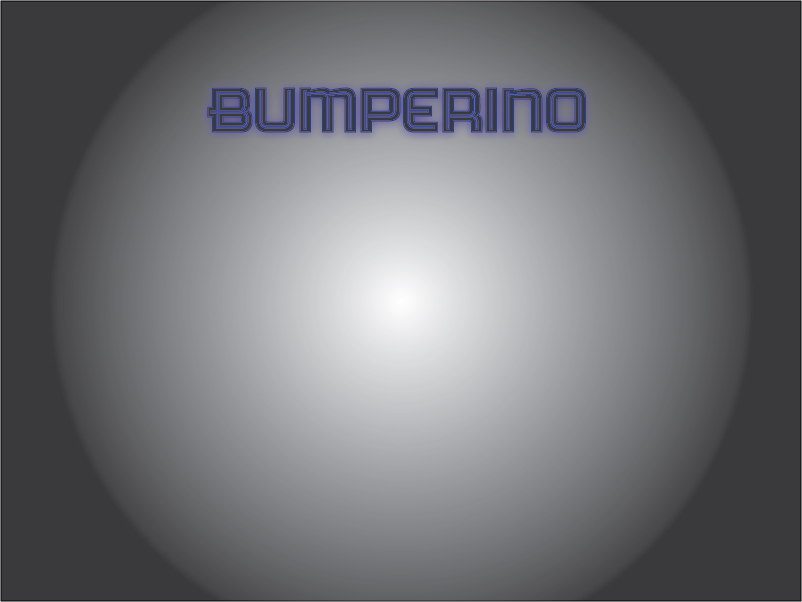
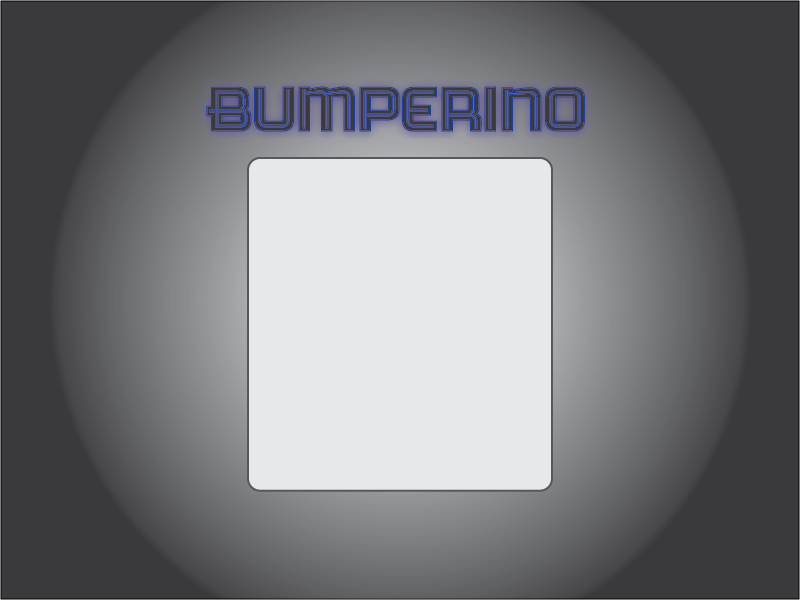
Cleaned up unneeded pieces from template, got basic menus up for bumperino

Changed region(s): [[0.2812, 0.12, 0.7188, 0.84], [0.625, 0.15, 0.75, 0.24], [0.25, 0.15, 0.375, 0.24]]

diff --git a/script.js b/script.js
@@ -1,18 +1,18 @@
 var stage;
 var queue;
-var titleScreen, gameScreen, instructionScreen, gameoverScreen;
-var menuButton, instructionButton, gameStartButton;
-var walkman;
+var titleScreen, gameScreen, instructionScreen, gameoverScreen, mapScreen;
+var menuButton, instructionButton, vsAIButton, vsPlayerButton;
 
 manifest = [
     {src:"images/titlescreen.jpg", id:"title"},
     {src:"images/gamescreen.jpg", id:"game"},
     {src:"images/instructionscreen.jpg", id:"instruction"},
     {src:"images/gameoverscreen.jpg", id:"gameover"},
+    {src:"images/mapselectscreen.jpg", id:"mapselect"},
     {src:"images/menubutton.png", id:"menubutton"},
     {src:"images/instructionbutton.png", id:"instructionbutton"},
-    {src:"images/startgamebutton.png", id:"startgamebutton"},
-    {src:"images/sprites.png", id:"walkSprite"},
+    {src:"images/vsAIbutton.png", id:"vsAI"},
+    {src:"images/vsplayerbutton.png", id:"vsPlayer"},
     {src:"scripts/image_handler.js"},
     {src:"scripts/key_handler.js"},
     {src:"scripts/mouse_handler.js"},
@@ -33,35 +33,14 @@ function loadComplete(evt){
     gameScreen = new createjs.Bitmap(queue.getResult("game"));
     instructionScreen = new createjs.Bitmap(queue.getResult("instruction"));
     gameoverScreen = new createjs.Bitmap(queue.getResult("gameover"));
+    mapScreen = new createjs.Bitmap(queue.getResult("mapselect"));
     menuButton = new createjs.Bitmap(queue.getResult("menubutton"));
     instructionButton = new createjs.Bitmap(queue.getResult("instructionbutton"));
-    gameStartButton = new createjs.Bitmap(queue.getResult("startgamebutton"));
+    vsAIButton = new createjs.Bitmap(queue.getResult("vsAI"));
+    vsPlayerButton = new createjs.Bitmap(queue.getResult("vsPlayer"));
     console.log("Everything loaded here boss!");
     
-    var walkSheet = new createjs.SpriteSheet({
-        images: [queue.getResult("walkSprite")],
-        frames: [[160,0,19,49,0,10.05,48.6],[179,0,34,44,0,17.05,43.6],[213,0,22,46,0,9.05,45.6],[235,0,17,49,0,8.05,48.6],[0,49,25,49,0,10.05,48.6],[25,49,31,46,0,14.05,45.6],[56,49,33,44,0,16.05,43.6],[89,49,30,44,0,17.05,43.6],[119,49,28,46,0,17.05,45.6],[147,49,19,49,0,10.05,48.6],[166,49,23,49,0,14.05,48.6],[189,49,31,46,0,16.05,45.6],[220,49,34,44,0,17.05,43.6],[0,98,19,49,0,9.05,48.6],[19,98,34,44,0,17.05,43.6],[53,98,22,46,0,13.05,45.6],[75,98,17,49,0,9.05,48.6],[92,98,25,49,0,15.05,48.6],[117,98,31,46,0,17.05,45.6],[148,98,33,44,0,17.05,43.6],[181,98,30,44,0,13.05,43.6],[211,98,28,46,0,11.05,45.6],[0,147,19,49,0,9.05,48.6],[19,147,23,49,0,9.05,48.6],[42,147,31,46,0,15.05,45.6],[73,147,34,44,0,17.05,43.6]],
-        animations: {
-            standRight: [0, 0, "standRight"],
-            walkRight: [1, 12, "walkRight", .5],
-            standLeft: [13, 13, "standLeft"],
-            walkLeft: [14, 25, "walkLeft", .5]
-            }
-        });
-    
-    walkman = new createjs.Sprite(walkSheet);
     initMainLoop();
-}
-
-function displaySprites() {
-    walkman.x=100;
-    walkman.y=200;
-    walkman.gotoAndPlay("walkRight");
-    stage.addChild(walkman);
-}
-
-function removeSprites(){
-    stage.removeChild(walkman);
 }
 
 function setupCanvas() {
@@ -72,17 +51,7 @@ function setupCanvas() {
 }
 
 function gameLoop(){
-    mouseUpdate();
-    addMouseText();
-    runGameTimer();
-    addTimerText();
-    addScoreText();
-    if(gameTimer%1 === 0){
-        scoreUpdate(10);
-    }
-    if(gameTimer >= 5){
-        SWITCH = "GAMEOVER";
-    }
+    
 }
 
 (function main() {

diff --git a/assets/scripts/button_handler.js b/assets/scripts/button_handler.js
@@ -1,41 +1,56 @@
 function initButtons(){
-    menuButton.x = instructionButton.x = gameStartButton.x = 650;
-    menuButton.y = 350;
-    instructionButton.y = 425;
-    gameStartButton.y = 500;
+    menuButton.x = instructionButton.x = vsAIButton.x = vsPlayerButton.x = 275;
+    menuButton.y = 400;
+    instructionButton.y = 400;
+    vsPlayerButton.y = 200;
+    vsAIButton.y = 300;
     stage.addChild(menuButton);
     stage.addChild(instructionButton);
-    stage.addChild(gameStartButton);
-    menuButton.visible = instructionButton.visible = gameStartButton.visible = false;
+    stage.addChild(vsPlayerButton);
+    stage.addChild(vsAIButton);
+    menuButton.visible = instructionButton.visible = vsPlayerButton.visible = vsAIButton.visible = false;
     console.log("buttons loaded");
     menuButton.on("click", function(evt){ SWITCH = "MENU" });
     instructionButton.on("click", function(evt){ SWITCH = "INSTRUCTION" });
-    gameStartButton.on("click", function(evt){
-        SWITCH = "GAME";
-        displaySprites();
+    vsPlayerButton.on("click", function(evt){
+        SWITCH = "MAP_SELECT";
+    });
+    vsAIButton.on("click", function(evt){
+        SWITCH = "MAP_SELECT";
     });
 }
 
 function setUpTitleScreenButtons(){
     menuButton.visible = false;
     instructionButton.visible = true;
-    gameStartButton.visible = true;
+    vsAIButton.visible = true;
+    vsPlayerButton.visible = true;
 }
 
 function setUpInstructionScreenButtons(){
     menuButton.visible = true;
     instructionButton.visible = false;
-    gameStartButton.visible = true;
+    vsAIButton.visible = false;
+    vsPlayerButton.visible = false;
 }
 
 function setUpGameScreenButtons(){
     menuButton.visible = false;
     instructionButton.visible = false;
-    gameStartButton.visible = false;
+    vsAIButton.visible = false;
+    vsPlayerButton.visible = false;
 }
 
 function setUpGameOverButtons(){
     menuButton.visible = true;
     instructionButton.visible = false;
-    gameStartButton.visible = false;
+    vsAIButton.visible = false;
+    vsPlayerButton.visible = false;
+}
+
+function setUpMapScreenButtons(){
+    menuButton.visible = true;
+    instructionButton.visible = false;
+    vsAIButton.visible = false;
+    vsPlayerButton.visible = false;
 }

diff --git a/assets/scripts/image_handler.js b/assets/scripts/image_handler.js
@@ -3,7 +3,8 @@ function initScreens(){
     stage.addChild(gameScreen);
     stage.addChild(instructionScreen);
     stage.addChild(gameoverScreen);
-    titleScreen.visible = gameScreen.visible = instructionScreen.visible = gameoverScreen.visible = false;
+    stage.addChild(mapScreen);
+    titleScreen.visible = gameScreen.visible = instructionScreen.visible = gameoverScreen.visible = mapScreen.visible = false;
     console.log("screen images loaded");
 }
 
@@ -12,6 +13,7 @@ function setUpTitleScreen(){
     gameScreen.visible = false;
     instructionScreen.visible = false;
     gameoverScreen.visible = false;
+    mapScreen.visible = false;
 }
 
 function setUpGameScreen(){
@@ -19,6 +21,7 @@ function setUpGameScreen(){
     gameScreen.visible = true;
     instructionScreen.visible = false;
     gameoverScreen.visible = false;
+    mapScreen.visible = false;
 }
 
 function setUpInstructionScreen(){
@@ -26,6 +29,7 @@ function setUpInstructionScreen(){
     gameScreen.visible = false;
     instructionScreen.visible = true;
     gameoverScreen.visible = false;
+    mapScreen.visible = false;
 }
 
 function setUpGameOverScreen(){
@@ -33,4 +37,13 @@ function setUpGameOverScreen(){
     gameScreen.visible = false;
     instructionScreen.visible = false;
     gameoverScreen.visible = true;
+    mapScreen.visible = false;
+}
+
+function setUpMapScreen(){
+    titleScreen.visible = false;
+    gameScreen.visible = false;
+    instructionScreen.visible = false;
+    gameoverScreen.visible = false;
+    mapScreen.visible = true;
 }

diff --git a/assets/scripts/switch.js b/assets/scripts/switch.js
@@ -15,7 +15,10 @@ function mainLoop() {
             setUpGameScreen();
             setUpGameScreenButtons();
             gameLoop();
-            //displaySprites();
+            break;
+        case "MAP_SELECT":
+            setUpMapScreen();
+            setUpMapScreenButtons();
             break;
         case "GAMEOVER":
             removeSprites();
@@ -24,6 +27,7 @@ function mainLoop() {
             resetScore();
             resetGameTimer();
             removeMouseText();
+            break;
         default:
             break;
     }
